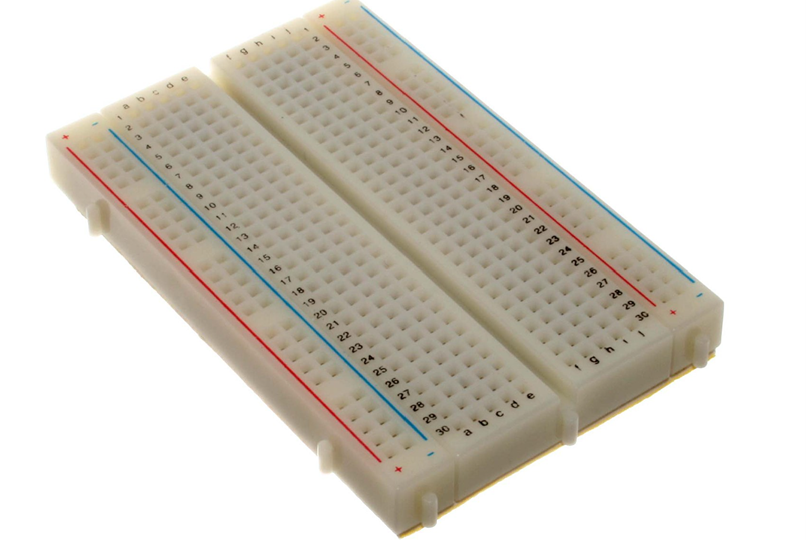
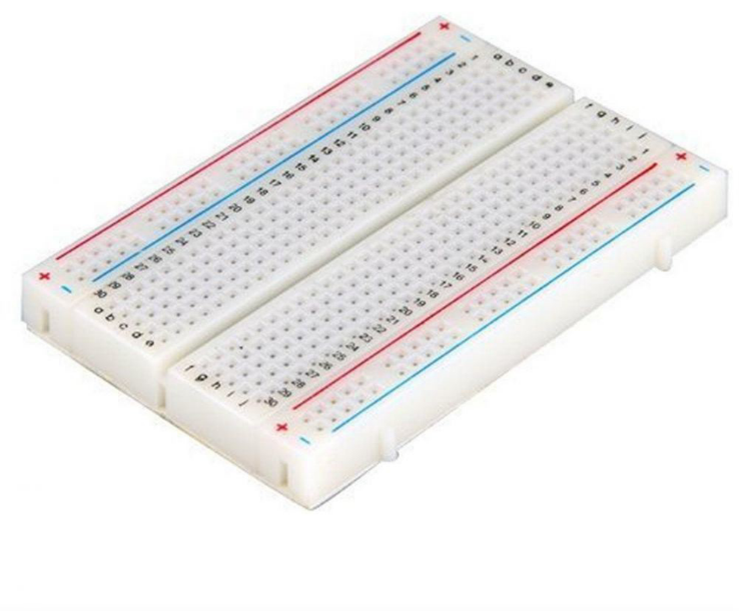
Updates to include a lot more details on the components needed to build the "useless box" and the instructions to build it. It also includes a new page with the materials to buy and prep work needed in advance of the workshop. This update also fixes review comments.

diff --git a/content/english/useless-box/components-setup.md b/content/english/useless-box/components-setup.md
@@ -1,0 +1,55 @@
+---
+title: "Preparing the components - teacher/instructor pre-work"
+description: ""
+draft: true
+weight: 5
+---
+
+### Materials:
+- “Useless box” pieces cut from SVG files (recommended: Acrylic 3mm thickness) 
+    - Each box requires 2 sheets that are 8x10 large [Clear acrylic sheet](https://www.amazon.com/KAITELA-Rectangle-Plexiglass-Painting-Projects/dp/B0987L4WFR/ref=sr_1_3?adgrpid=1330409642782912&hvadid=83150843010174&hvbmt=be&hvdev=c&hvlocphy=71326&hvnetw=o&hvqmt=e&hvtargid=kwd-83150963464972%3Aloc-190&hydadcr=7345_13216502&keywords=acrylic%2Bsheet%2B3mm&qid=1663801887&sr=8-3&th=1)
+- Toggle switch (red switch on top) [5 Pcs ON OFF ON 6 Terminals Double Pole Dual Throw Toggle Switch 6A 125V AC|Switches| - AliExpress)](https://www.aliexpress.com/item/2251832710089207.html?aff_platform=true&aff_short_key=UneMJZVf&isdl=y&src=bing&pdp_npi=2%40dis!USD!1.68!1.66!!!1.97!!%40!65756833234!ppc&msclkid=f50a32c5387211ed8cac8ef02f67670c)
+- Limit switch (black switch on bottom) [Omron Electronic Components - D2F-L-A - Switch, Snap Action, Subminiature, Hinge Lever, 80G Of, Pcb Terminal Right Angle - Allied Electronics & Automation, part of RS Group](https://www.alliedelec.com/product/omron-electronic-components/d2f-l-a/70175825/?gclid=e7c6b77e9caa136d7b6ad456674473a9&gclsrc=3p.ds&msclkid=e7c6b77e9caa136d7b6ad456674473a9&utm_source=bing&utm_medium=cpc&utm_campaign=Search%20%7C%20Parts%20%7C%20US%20%7C%20N-RLSA%20%7C%20Omron%20Electronic%20Components%20%7C%20IMP_EX_GR&utm_term=d2f-l-a&utm_content=Parts%20%7C%20Omron%20%7C%2070175825)
+- 2 or 3 AA battery pack/holder [2X 1.5V AA Battery Holder Case with On/Off Switch and Wire Leads](https://www.amazon.com/QTEATAK-Battery-Holder-Switch-Leads/dp/B08119TXFH/ref=sr_1_48?crid=2ZAUUWSU1AFLF&keywords=battery+pack+aa&qid=1663631060&sprefix=battery+pack+aa%2Caps%2C150&sr=8-48)
+- 2 or 3 AA Batteries (depending on the battery pack/holder) [Alkaline Batteries](https://www.amazon.com/QTEATAK-Battery-Holder-Switch-Leads/dp/B08119TXFH/ref=sr_1_48?crid=2ZAUUWSU1AFLF&keywords=battery+pack+aa&qid=1663631060&sprefix=battery+pack+aa%2Caps%2C150&sr=8-48)
+- 400 Pin Breadboard (can be switched out with smaller breadboard if needed) [Prototype Board](https://www.amazon.com/DEYUE-breadboard-Set-Prototype-Board/dp/B07LFD4LT6/ref=sr_1_3?crid=2IGK1BCDJ71ED&keywords=small+breadboard&qid=1663630882&sprefix=small+breadboard%2Caps%2C121&sr=8-3)
+- Motor [90 Degree Shaft](https://www.solarbotics.com/product/gm3/)
+- 12 jumper wires [Jumper Wires 20cm Wire Length](https://www.amazon.com/EDGELEC-Breadboard-Optional-Assorted-Multicolored/dp/B07GD2BWPY/ref=sr_1_1_sspa?crid=3H2K8EQ4GPDUX&keywords=jumper+wires&qid=1663793819&sprefix=jumper+wire%2Caps%2C153&sr=8-1-spons&psc=1)
+    - 2 black
+    - 2 red
+    - 2 yellow
+    - 3 blue 
+    - 3 green
+- 2 Screws (#2-28 X 3/8") for limit switch [Steel Thread Rolling Screw for Plastic](https://www.amazon.com/Thread-Rolling-Plastic-Plated-Phillips/dp/B00GDXU8AA/ref=sr_1_1?adgrpid=1343603773188892&content-id=amzn1.sym.918a99dd-4826-4c0a-be33-a6705d69c4cf%3Aamzn1.sym.918a99dd-4826-4c0a-be33-a6705d69c4cf&hvadid=83975476779793&hvbmt=bp&hvdev=c&hvlocphy=71326&hvnetw=o&hvqmt=p&hvtargid=kwd-83975579182048%3Aloc-190&hydadcr=289_1014987004&keywords=Screws&pd_rd_r=a70a1310-d4b1-4756-9dc1-d79ff6484b53&pd_rd_w=EkKti&pd_rd_wg=3UCAc&pf_rd_p=918a99dd-4826-4c0a-be33-a6705d69c4cf&pf_rd_r=0RRZA1AE1EZ9793X1SGA&pid=4aqsy5C&qid=1663795592&refinements=p_n_feature_fourteen_browse-bin%3A17910830011%2Cp_n_feature_twenty-eight_browse-bin%3A19043647011%2Cp_n_feature_two_browse-bin%3A2292861011&s=industrial&sr=1-1)
+- 2 screws (#6-32 X 1/2”) for motor [Steel Thread Cutting Screw](https://www.amazon.com/Thread-Cutting-Plated-Finish-Phillips/dp/B00GWZZSMW/ref=sr_1_6?content-id=amzn1.sym.918a99dd-4826-4c0a-be33-a6705d69c4cf%3Aamzn1.sym.918a99dd-4826-4c0a-be33-a6705d69c4cf&keywords=Screws&pd_rd_r=624a407a-0655-4b32-a6cb-cf32f9d51be0&pd_rd_w=HIT7W&pd_rd_wg=EofiN&pf_rd_p=918a99dd-4826-4c0a-be33-a6705d69c4cf&pf_rd_r=WG4EWQ5SB4RJVF9B186Q&pid=IpTgsYo&qid=1663796458&refinements=p_n_feature_fourteen_browse-bin%3A11433959011%2Cp_n_feature_twenty-eight_browse-bin%3A19043652011%2Cp_n_feature_thirteen_browse-bin%3A15245623011%2Cp_n_material_browse%3A17548979011%2Cp_n_feature_two_browse-bin%3A2292861011&s=industrial&sr=1-6)
+- All pieces as provided for students (Previously laser cut acrylic pieces 1-9 are labeled, 3 battery, battery pack, 3 batteries, 400 Pin breadboard) 
+
+
+---
+
+1.	Purchase all required materials
+2.	Use the SVG file to laser cut the "useless box" pieces.
+    1. Any material is suitable if it’s about 3mm thick
+3.	Solder the wires to the motor
+    1. Follow the below color scheme to ensure it matches with the provided diagrams
+    2. Ensure the plastic tab is over the wires for increased stability
+    3. Note that screwing the motor to the middle piece (8) is step 6
+    4. Note that inserting the finger on to the motor is step 7
+![motor and limit switch setup](../img/setup1.jpg)
+![motor and limit switch setup bottom view](../img/setup2.jpg)
+4.	Solder the wires to the limit switch
+    1. Follow the below color scheme to ensure it matches with the provided diagrams
+    2. Note that screwing the limit switch to the middle piece (8) is step 6
+![limit switch](../img/limitSwitchWithWires.jpg)
+5. Solder the wires to the toggle switch
+    1. Follow the below color scheme to ensure it matches with the provided diagrams
+![toggle switch with wires](./img/setup3.jpg)
+6.	Using the screws, screw the motor and the limit switch into the middle piece (8)
+![motor with finger](../img/motorWithFinger.jpg)
+7.	Align the finger pieces (9) and insert them into the motor as seen above
+    1. The finger is not thick enough by itself so we have two finger pieces that can be glued together (each piece is 3mm thick) to make one thicker finger 
+8.	Screw the toggle switch (the red switch) into the top piece with the hole (7)
+    1. The toggle switch is symmetrical, so it doesn’t matter which terminal is which. The idea that matters more is that the flicked switch corresponds to the intended forward or backwards motion of the finger. Two approaches for doing so: 
+        1. If you use the exact switch that we used, the word “Taiway” should be read correctly if the switch is in the right direction. 
+        2. If you would like to figure it out yourself, then use alligator clips to make temporary connections and test it out. If you build the circuit and the direction of the toggle switch is flipped incorrectly (i.e. you flick the switch intending it to go forward but it goes backwards instead), then the solution to fix this is switch the location of where the red and black wires of the battery are placed in the diagram. Afterwards, physically rotate the toggle switch around. This should fix the problem. 
+        ![toggle switch attached to acrylic](../img/setup4.jpg)

diff --git a/content/english/useless-box/build-the-box.md b/content/english/useless-box/build-the-box.md
@@ -6,24 +6,83 @@ weight: 3
 ---
 
 ## Let's build the box
-![diagram of the parts to build the box, base, lids, sides, end, motor mount and finger](../img/boxPartsDiagram.png)
-1.	Glue 2 fingers together, to make a thicker finger. (If it�s already thick enough, skip this step)
-2.	Attach the motor to the motor mount
-3.	Attach the momentary/limit switch 
-4.	Mount the toggle switch onto the lid
-5.	Press the finger onto the motor shaft and secure it
-6.	The rest of the box slides and snaps together.
-	a.	Fit the motor mount piece to the base, try to get the finger to be centered in the box
-	b.	Fit the sides
-	c.	Put one lid on and snap the end. 
-Should look something like this:
-![4 images showing steps to build the box](../img/boxBuildingSteps.png)
 
 Here's the circuit design:
-![diagram of the final circuit](../img/circuit.png)
+![diagram of the final circuit](../img/circuit-color.png)
+**How do we read the diagram above?**
+
+The circle with the “M” represents the motor and the circle with the “B” represents the battery. We will be using a breadboard below to build the connections. A breadboard is a device that allows us to make electrical connections without gluing the wires together (which is called “soldering”!). We'll talk more about it and show a picture a bit later.
+
 When the limit switch connects and something (for example: you) changes the position of the toggle switch ON, the battery powers the motor, which moves the finger.  
 The mechanical finger from inside the box comes out and toggles the switch OFF, so the mechanical finger retracts.
 
+Let's review the components. We have a 12 total wires in play:
+- 2 yellow, 3 green, 3 blue, 2 red, 2 black.
+- The bottom **limit switch** is connected to 2 wires (yellow, green) from its 2 terminals. 
+![limit switch with wires](../img/limitSwitchWithWires.jpg)
+- The **battery pack** is connected to 2 wires (red, black). 
+![battery pack with wires](../img/batteryPackWithWires.jpg)
+- The **motor** is connected to 2 wires (green, blue). 
+![motor with 2 wires](../img/motorWith2Wires.jpg)
+- The motor should have an acrylic finger attached.
+![motor with acrylic finger](../img/motorWithFinger.jpg)
+- The top **toggle switch** is connected to 6 wires (yellow, green, 2 blue, red, black) from its 6 terminals labeled in the figure above. 
+It should look something like this:
+![switch with wires](../img/switchWithWires.jpg)
+
+Here's a broader view of the part that has the motor, finger and limit switch attached:
+![view of piece with motor, finger and limit switch with wires attached](../img/motorFingerAndLimitSwitchPiece.jpg)
+- A **breadboard/protoboard** works by making electrical connections for you! Each row on each side of the vertical divider of the breadboard is connected together.  The middle divider separates the two halves of the board- the two halves are also not connected together, so for example 1A-1E are connected together or 7F-7J. Wires in the same column are not connected together.
+![breadboard](../img/breadBoard.png)
+Here's a breadboard diagram (showing yellow rows ar:
+
+	![breadboard diagram](../img/breadboardDiagram.png)
+
+### Time to start building Nuvi a house!
+
+1. Let's place the 12 wires into the breadboard. All the same-colored wires should go in the same rows, as follows:
+
+	Note that the ranges below represent the rows and columns of the breadboard. We need to insert the end of each of the wires in any of the slots in the ranges specified below.
+	1. Yellow: 26F - 26J 
+	2. Green: 23F - 23J 
+	3. Blue: 20A - 20E 
+	
+	Hint: Place the battery pack's wires last.
+	
+	4. Red: 1F - 1J
+	5. Black: 1A - 1E
+
+Now, it should look like this:
+![breadboard with wires connected](../img/connectedBreadboard.jpg)
+
+Here's a top view of the breadboard:
+![breadboard top view](../img/breadboardWiring.png)
+Here's a broader view of the same, where you can see the piece that has the motor and limit switch attached:
+![broader view of the breadboard connections](../img/boarderViewBreadboard.jpg)
+
+2. Now let’s be sure to test if it works before putting it in the box! We will need to flick the toggle switch (the red colored switch in the picture) and see the finger move forward. If you flick the toggle switch the other way, then the finger will move backwards. If the finger is moving backwards and you press the limit switch (the black colored switch in the picture), then the finger should stop. 
+
+3. Let's put the circuit in the box! 
+	1. Disconnect the battery pack’s red and black wires from the breadboard. 
+	2. Insert the middle piece (#8) into the base acrylic piece (#1). Be sure that the motor is on the smaller half of the base (#1) and the finger (#9) is on the larger half. This will center the finger with the box. 
+	![motor piece attached to the base](../img/buildingTheBox1.jpg)
+	3. Insert the two side acrylic pieces (#2 and #3) into the side of the base (#1) as seen below:
+	![sides attached to the box](../img/buildingTheBox2.jpg)
+	4. Align the top with the toggle switch piece (#7) with the side pieces (#2 and #3). There is a nook at the end of the side pieces (#2 and #3) that the top piece (#7) will sit on. 
+	![one top piece placed on the box](../img/buildingTheBox3.jpg)
+	5. Repeat this step with the other top piece (#6) on the other side of pieces #2 and #3. There is a nook at the end of the side pieces (#2 and #3) that the top piece (#6) will sit on.
+	![second top piece placed on the box](../img/buildingTheBox4.jpg)
+	6. Reconnect the battery pack’s wires to their appropriate rows on the breadboard (Red: 1F – 1J, Black: 1A- 1E from earlier suggestion). **Make sure that all red wires are in the same row and all black wires are in the same row.** 
+	*Note: All same-colored wires should be in rows of their own in the same half section of the breadboard as each other. Remember only rows are connected with each other and the two vertical sections are totally disconnected from one another even if they are in the same row.*
+	7. Place the battery pack snugly on its side in the box. It should be beside the motor and opposite the breadboard. Make sure no wires get disconnected in the process.
+	8.Use the two end pieces (#4 and #5) to close the box. The hooks on the side pieces (#2 and #3) bend down to hook the end pieces into place and lock the box. 
+![complete box built](../img/completeBox.jpg)
+4. Your box is complete!
+![another view of the completed box built](../img/completeBox1.jpg)
+5. Flip the switch and make sure it works! Make sure no wires are in the way of the finger (#9) for when it moves up. 
+*Hint: You might have to hold down the top piece (#6) across the top switch to make sure that Nuvi doesn’t get stuck when trying to flip the switch back.*
+
+You have built a home for Nuvi!
 
 ### CONGRATS! You've done it. Feel free to play with your box and learn or experiment with more basic circuits.
 

diff --git a/content/english/useless-box/learning-concepts.md b/content/english/useless-box/learning-concepts.md
@@ -7,13 +7,16 @@ weight: 2
 ## How do we make a "useless" box? Let's learn some basic concepts first!
 
 ### What will power the box? Batteries!
-A battery is a chemical pump for electrons(*)! There is a pair of chemical reactions that pump electrons from anode to cathode. 
+A battery is a chemical pump for electrons! There is a pair of chemical reactions that pump electrons from [anode](https://en.wikipedia.org/wiki/Anode) (negative end of the battery) to [cathode](https://en.wikipedia.org/wiki/Cathode) (positive end of the battery). 
 
 The battery **voltage** is the potential energy given to electrons as a result of this pump.  
 
-((\*)An electron is a stable subatomic particle with a charge of negative electricity, found in all atoms and acting as the primary carrier of electricity in solids.)
+{{%notice tip%}}
+An electron is a stable subatomic particle with a charge of negative electricity, found in all atoms and acting as the primary carrier of electricity in solids.)
+{{%/notice%}}
 
-You may be familiar with this type of batteries, that power many of our devices (or toys):
+You may be familiar with AA (double-A) batteries, that power many of our devices (or toys):
+
 ![double AA battery](../img/regularBattery.jpg)
 
 Voltage, measured in "volts", is always a measure of "the difference in potential energy" between two points. For example: charge at the top of the battery have 1.5V higher energy than the bottom.
@@ -24,7 +27,7 @@ What happens when you attach a light to a battery? **Current** flows.
 But what is flowing?
 
 Electrical charge. **Charge** is what makes components electrical. Charge can flow/move in material that conducts electricity, like wires. 
-Moving charge is called **current**. Its unit is the Ampere, usually called amps (A). 
+Moving charge is called **current**. We measure current in Amperes, usually called amps (A). 
 
 ### What triggers the action? Let's talk switches!
 What is a switch? A switch is a component that uses a mechanical motion to change the conductivity between its terminals.

diff --git a/content/english/useless-box/_index.md b/content/english/useless-box/_index.md
@@ -6,13 +6,13 @@ prereq: "None"
 difficulty: "Beginner"
 download: ""
 draft: true
-icon: "fas fa-microchip"
+icon: "fa-solid fa-microchip"
 ---
 
 # Can we make a box for Nuvi?
 
-Nuvi is in a bad mood, and it wants to be left alone. You have to make a box for it to have some privacy, but the box needs to be openable with a switch if you need to talk to it.
-Let’s make what’s called a “useless box”. This could also be amusement for little ones, or just a silly gadget that’s fun to play with and pass the time 😊
+Nuvi is in a bad mood and wants to be left alone. You have to build it a house and let it know you're there by pressing the switch. Nuvi doesn't really want to talk right now, so it will let you know that by pushing the switch back.
+Let’s make what’s called a “useless box”. This could also be amusement for little ones, or just a silly gadget that’s fun to play with and pass the time 😊.
 
 This is what it would look like:
 ![useless box picture, clear prism with a switch in the center](../img/uselessbox1.png)
